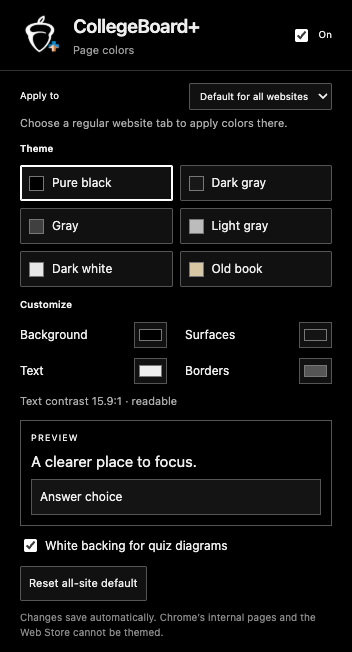
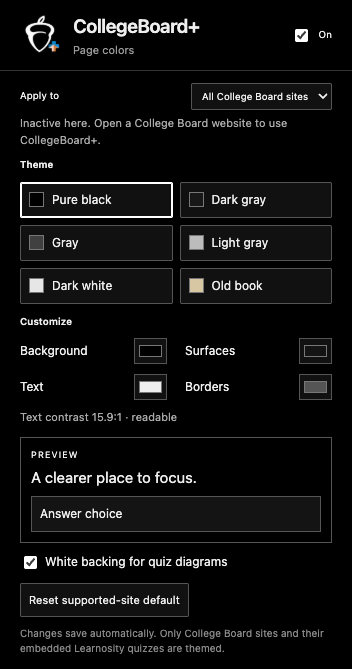
Restrict activation to College Board sites in 1.0.6

diff --git a/extension/popup.html b/extension/popup.html
@@ -4,7 +4,7 @@
 <body>
 <header><div class="brand"><img class="logo" src="icons/logo.png" alt="" width="44" height="44"><div><h1>CollegeBoard+</h1><p>Page colors</p></div></div><label class="enable"><input id="enabled" type="checkbox"> On</label></header>
 <main>
-<label class="scope">Apply to <select id="scope"><option value="site">This website</option><option value="global">Default for all websites</option></select></label>
+<label class="scope">Apply to <select id="scope"><option value="site">This website</option><option value="global">All College Board sites</option></select></label>
 <p id="site" class="muted"></p>
 <fieldset><legend>Theme</legend><div id="presets" class="presets"></div></fieldset>
 <fieldset id="custom"><legend>Customize</legend><div class="colors">
@@ -13,6 +13,6 @@
 <div id="preview"><small>PREVIEW</small><p>A clearer place to focus.</p><span>Answer choice</span></div>
 <label class="paper"><input type="checkbox" id="paper"> White backing for quiz diagrams</label>
 <footer><button id="reset">Use default settings</button><span id="status" role="status" aria-live="polite"></span></footer>
-<p class="note">Changes save automatically. Chrome’s internal pages and the Web Store cannot be themed.</p>
+<p class="note">Changes save automatically. Only College Board sites and their embedded Learnosity quizzes are themed.</p>
 </main><script src="shared.js"></script><script src="popup.js"></script>
 </body></html>

diff --git a/extension/popup.js b/extension/popup.js
@@ -5,8 +5,8 @@
   try { if (/^https?:/.test(tab?.url)) host = new URL(tab.url).hostname; } catch {}
   let data = await chrome.storage.local.get(['global', 'sites']);
   let current;
-  if (!host) { $('scope').value = 'global'; $('scope').options[0].disabled = true; }
-  $('site').textContent = host || 'Choose a regular website tab to apply colors there.';
+  if (!PageColors.isCollegeBoard(host)) { host = '';  $('scope').value = 'global'; $('scope').options[0].disabled = true; }
+  $('site').textContent = host || 'Inactive here. Open a College Board website to use CollegeBoard+.';
   for (const [id, p] of Object.entries(PageColors.presets)) {
     const button = document.createElement('button');
     button.type = 'button'; button.dataset.preset = id;
@@ -28,7 +28,7 @@
       $('preview').style.cssText = `background:${p.background};color:${p.text};border-color:${p.border}`;
       $('preview').querySelector('span').style.cssText = `background:${p.surface};border-color:${p.border}`;
     }
-    $('reset').textContent = $('scope').value === 'site' ? 'Use website defaults' : 'Reset all-site default';
+    $('reset').textContent = $('scope').value === 'site' ? 'Use website defaults' : 'Reset supported-site default';
   }
   function load() { current = { ...PageColors.defaults, ...($('scope').value === 'site' ? data.sites?.[host] || data.global : data.global) }; render(); }
   let saving = Promise.resolve();

diff --git a/extension/content.js b/extension/content.js
@@ -26,6 +26,9 @@
   let style, observer, timer, settings, storage = {}, site = location.hostname;
   // In embedded quizzes, use the outer site's preference whenever Chrome exposes it.
   try { site = new URL(location.ancestorOrigins?.[location.ancestorOrigins.length - 1] || location.href).hostname; } catch {}
+  // Learnosity is shared by many services. Only theme its frames when the
+  // outermost page belongs to College Board, never unrelated customers.
+  if (!PageColors.isCollegeBoard(site)) return;
   const pending = new Set();
   const priority = ':root:not(#cbp-unused-1):not(#cbp-unused-2):not(#cbp-unused-3)';
   const excluded = 'img, video, canvas, svg, svg *, picture, iframe, object, embed';

diff --git a/extension/shared.js b/extension/shared.js
@@ -23,5 +23,6 @@
     return .2126 * rgb[0] + .7152 * rgb[1] + .0722 * rgb[2];
   }
   function contrast(a, b) { const x = luminance(a), y = luminance(b); return (Math.max(x, y) + .05) / (Math.min(x, y) + .05); }
-  globalThis.PageColors = { presets, defaults, resolve, luminance, contrast };
+  const isCollegeBoard = host => host === 'collegeboard.org' || host.endsWith('.collegeboard.org');
+  globalThis.PageColors = { isCollegeBoard, presets, defaults, resolve, luminance, contrast };
 })();

diff --git a/README.md b/README.md
@@ -13,15 +13,15 @@ The ZIP contains the same installable files. Extract it first and select the ext
 
 ## Use
 
-Choose a preset or change background, surface, text, and border colors. Settings save immediately. **This website** creates an override for the current hostname; **Default for all websites** changes the fallback for websites without overrides. **Use website defaults** deletes that site's override. Switching **On** off restores original page colors. The popup stays black regardless of the page palette.
+Choose a preset or change background, surface, text, and border colors. Settings save immediately. **This website** creates an override for the current hostname; **All College Board sites** changes the fallback for supported sites without overrides. **Use website defaults** deletes that site's override. Switching **On** off restores original page colors. The popup stays black regardless of the page palette.
 
 **Old book** uses warm beige backgrounds and dark brown text. It has no texture or animation. **White backing for quiz diagrams** keeps transparent Learnosity images readable without inverting their pixels. Custom color contrast is shown against both background colors.
 
 ## Scope and privacy
 
-The extension requests local storage, active-tab access for identifying the current site, and content-script access to HTTP/HTTPS pages. It stores settings locally. It has no analytics, network requests, remote libraries, or quiz-answer features. The supplied HAR files were inspected for CSS patterns; account data, request headers, captured questions, and HAR files are not included in the extension or ZIP.
+The extension requests local storage, active-tab access for identifying the current site, and content-script access limited to HTTPS College Board and Learnosity domains. It stores settings locally. It has no analytics, network requests, remote libraries, or quiz-answer features. The supplied HAR files were inspected for CSS patterns; account data, request headers, captured questions, and HAR files are not included in the extension or ZIP.
 
-The implementation follows [Chrome's content script model](https://developer.chrome.com/docs/extensions/develop/concepts/content-scripts). Page recoloring cannot change the Chrome toolbar, internal pages, Web Store, or built-in PDF viewer. Closed shadow roots and unusual inline `!important` rules can retain original styles. Images, videos, diagram SVGs, and canvases keep their original artwork; neutral SVG icons in controls follow the text color; full-color background images are preserved. Embedded HTTP/HTTPS frames inherit the top-level hostname when exposed by Chrome.
+The implementation follows [Chrome's content script model](https://developer.chrome.com/docs/extensions/develop/concepts/content-scripts). Page recoloring cannot change the Chrome toolbar, internal pages, Web Store, or built-in PDF viewer. Closed shadow roots and unusual inline `!important` rules can retain original styles. Images, videos, diagram SVGs, and canvases keep their original artwork; neutral SVG icons in controls follow the text color; full-color background images are preserved. Embedded Learnosity frames inherit the College Board top-level hostname when exposed by Chrome. Standalone Learnosity pages and other websites are not themed.
 
 ## Verification
 
@@ -37,7 +37,7 @@ Set `CHROMIUM_PATH` if using a separately installed Chromium executable. Preview
 
 ## Changes after release 1.0.0
 
-The main branch contains version 1.0.5. Releases **1.0.2** and **1.0.3** are published on GitHub; release **1.0.0** remains available unchanged.
+The main branch contains version 1.0.6. Releases **1.0.2** and **1.0.3** are published on GitHub; release **1.0.0** remains available unchanged.
 
 - Re-scan the page when dynamically inserted stylesheets change quiz colors.
 - Override high-specificity page rules affecting headers, footers, banners, and controls.
@@ -68,3 +68,9 @@ Replaced the popup logo and all toolbar/extension icon sizes with the updated su
 ### 1.0.5 — CollegeBoard+ branding
 
 Renamed the extension, toolbar title, and popup to CollegeBoard+. Page colors remains the current feature. New release assets use `CollegeBoardPlus-vVERSION.zip`; previously published asset names remain unchanged.
+
+### 1.0.6 — College Board sites only
+
+Only `collegeboard.org` and its subdomains activate CollegeBoard+. Learnosity frames are supported when embedded within a College Board page; standalone Learnosity pages are left unchanged. Broad all-website content-script access has been removed. The popup identifies unsupported tabs and labels shared defaults as “All College Board sites.”
+
+After updating, reload existing tabs to remove any styling injected by earlier versions. Controlled Chromium checks cover unrelated and lookalike domains, standalone Learnosity, embedded Learnosity, and the existing theme/loading behavior. Live signed-in quiz verification remains pending.
